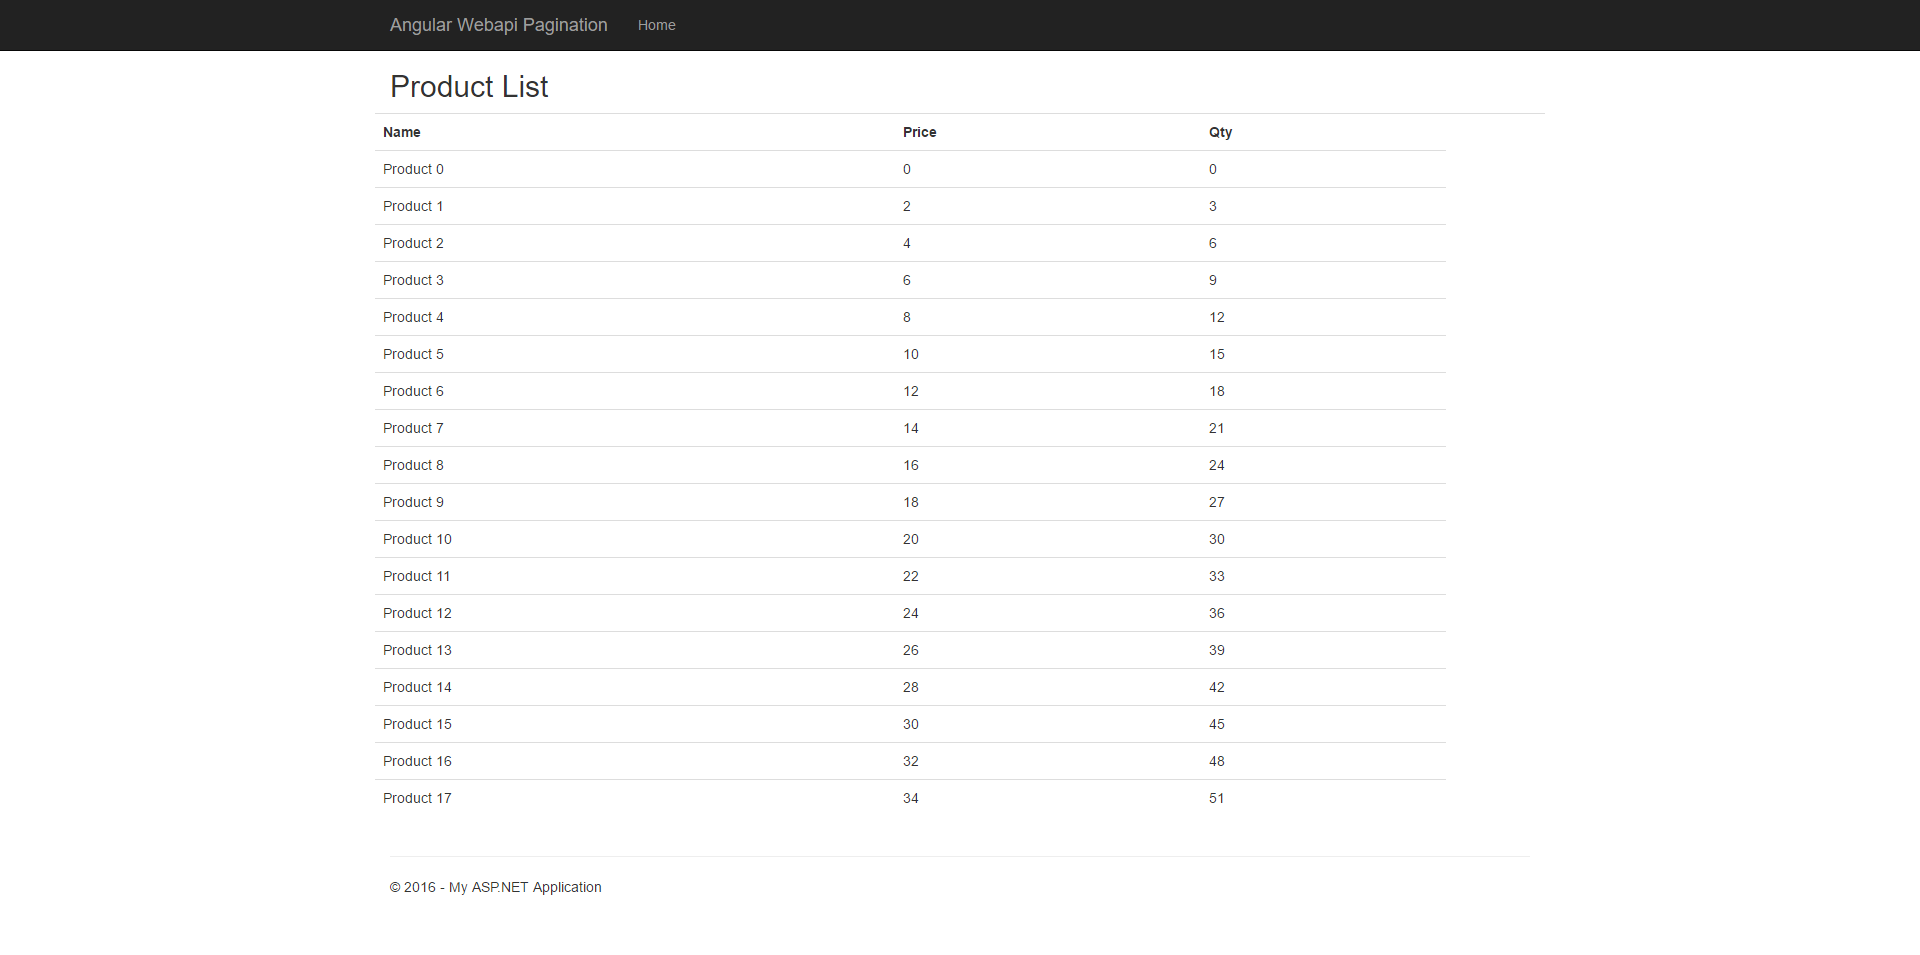
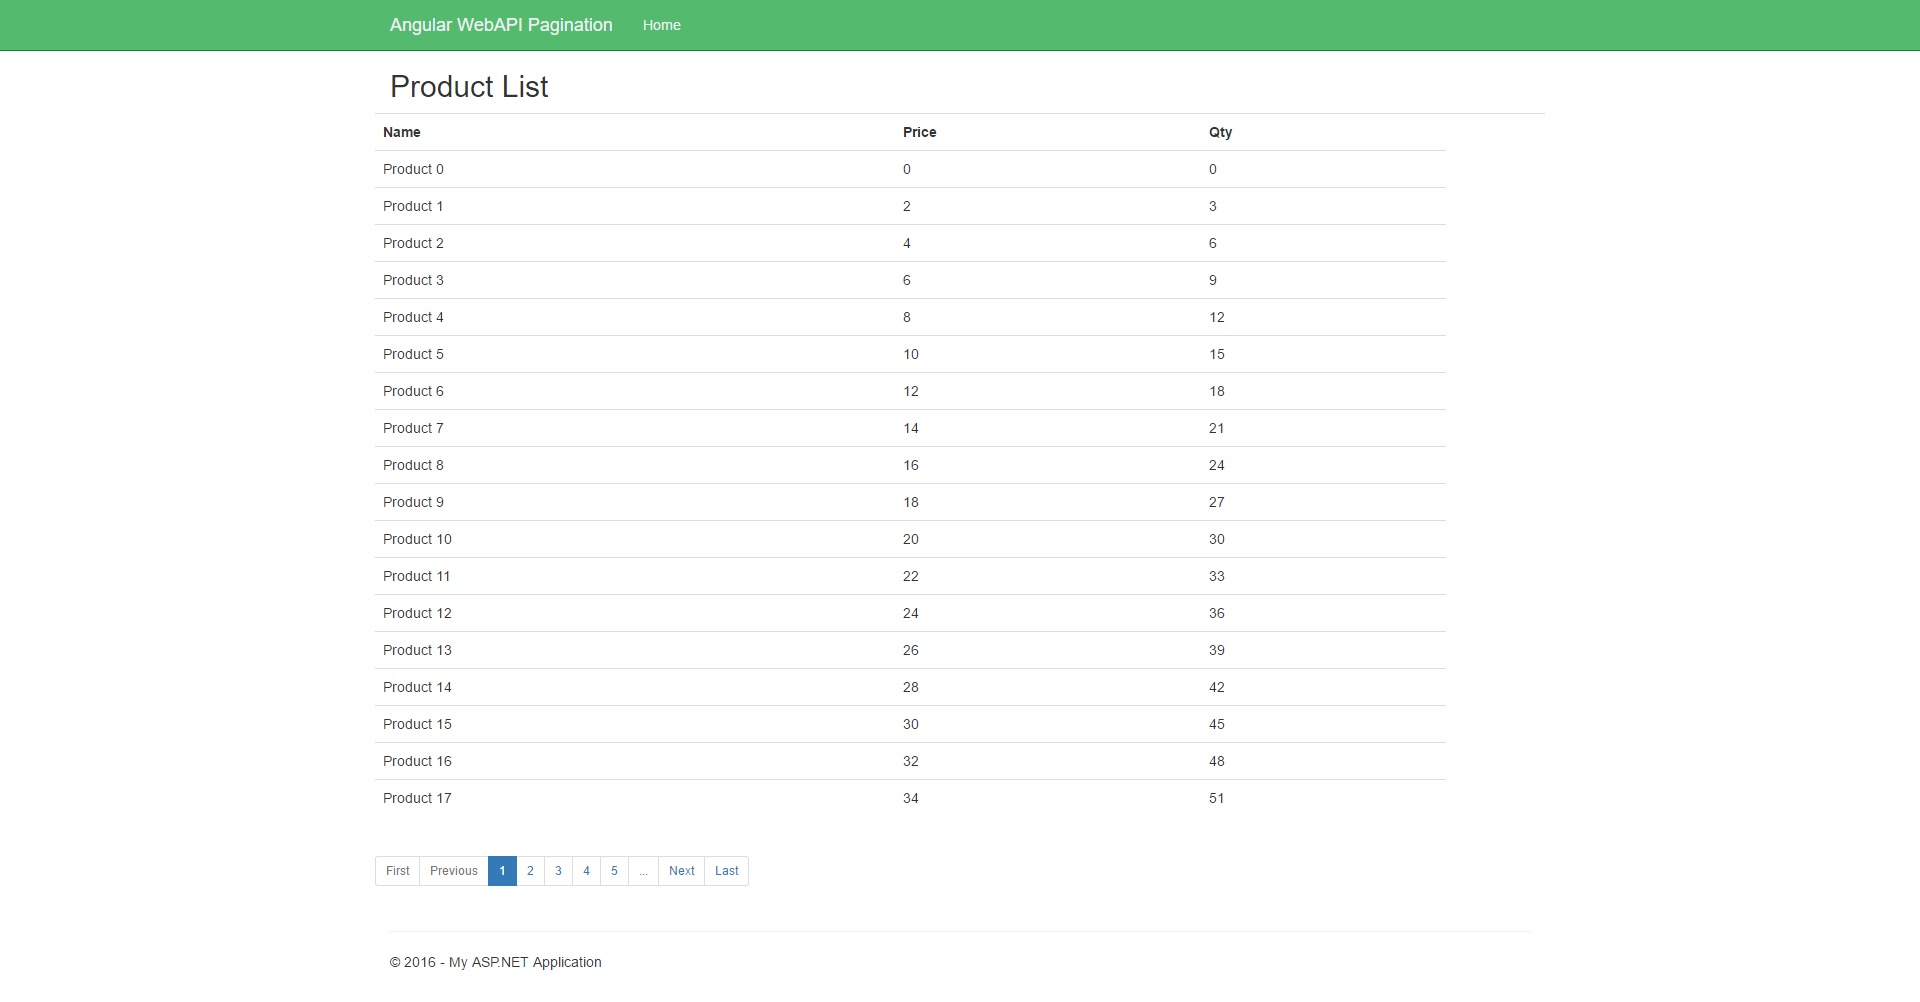
update css and screenshot

diff --git a/AngularWebAPIPagination/Content/Site.css b/AngularWebAPIPagination/Content/Site.css
@@ -22,3 +22,73 @@ select,
 textarea {
     max-width: 280px;
 }
+
+.navbar-default {
+  background-color: #54ba6d;
+  border-color: #09832d;
+}
+.navbar-default .navbar-brand {
+  color: #ecf0f1;
+}
+.navbar-default .navbar-brand:hover,
+.navbar-default .navbar-brand:focus {
+  color: #f9f2f2;
+}
+.navbar-default .navbar-text {
+  color: #ecf0f1;
+}
+.navbar-default .navbar-nav > li > a {
+  color: #ecf0f1;
+}
+.navbar-default .navbar-nav > li > a:hover,
+.navbar-default .navbar-nav > li > a:focus {
+  color: #f9f2f2;
+}
+.navbar-default .navbar-nav > .active > a,
+.navbar-default .navbar-nav > .active > a:hover,
+.navbar-default .navbar-nav > .active > a:focus {
+  color: #f9f2f2;
+  background-color: #09832d;
+}
+.navbar-default .navbar-nav > .open > a,
+.navbar-default .navbar-nav > .open > a:hover,
+.navbar-default .navbar-nav > .open > a:focus {
+  color: #f9f2f2;
+  background-color: #09832d;
+}
+.navbar-default .navbar-toggle {
+  border-color: #09832d;
+}
+.navbar-default .navbar-toggle:hover,
+.navbar-default .navbar-toggle:focus {
+  background-color: #09832d;
+}
+.navbar-default .navbar-toggle .icon-bar {
+  background-color: #ecf0f1;
+}
+.navbar-default .navbar-collapse,
+.navbar-default .navbar-form {
+  border-color: #ecf0f1;
+}
+.navbar-default .navbar-link {
+  color: #ecf0f1;
+}
+.navbar-default .navbar-link:hover {
+  color: #f9f2f2;
+}
+
+@media (max-width: 767px) {
+  .navbar-default .navbar-nav .open .dropdown-menu > li > a {
+    color: #ecf0f1;
+  }
+  .navbar-default .navbar-nav .open .dropdown-menu > li > a:hover,
+  .navbar-default .navbar-nav .open .dropdown-menu > li > a:focus {
+    color: #f9f2f2;
+  }
+  .navbar-default .navbar-nav .open .dropdown-menu > .active > a,
+  .navbar-default .navbar-nav .open .dropdown-menu > .active > a:hover,
+  .navbar-default .navbar-nav .open .dropdown-menu > .active > a:focus {
+    color: #f9f2f2;
+    background-color: #09832d;
+  }
+}

diff --git a/AngularWebAPIPagination/App_Start/BundleConfig.cs b/AngularWebAPIPagination/App_Start/BundleConfig.cs
@@ -27,12 +27,10 @@ namespace AngularWebAPIPagination
                  "~/Scripts/angular-ui/ui-bootstrap.js",
                  "~/Scripts/angular-ui/ui-bootstrap-tpls.js"
              ));
-            bundles.Add(new StyleBundle("~/Content/angular-ui").Include(
-                    "~/Content/ui-bootstrap-csp.css"
-                ));
 
             bundles.Add(new StyleBundle("~/Content/css").Include(
                       "~/Content/bootstrap.css",
+                       "~/Content/ui-bootstrap-csp.css",
                       "~/Content/site.css"));
         }
     }
